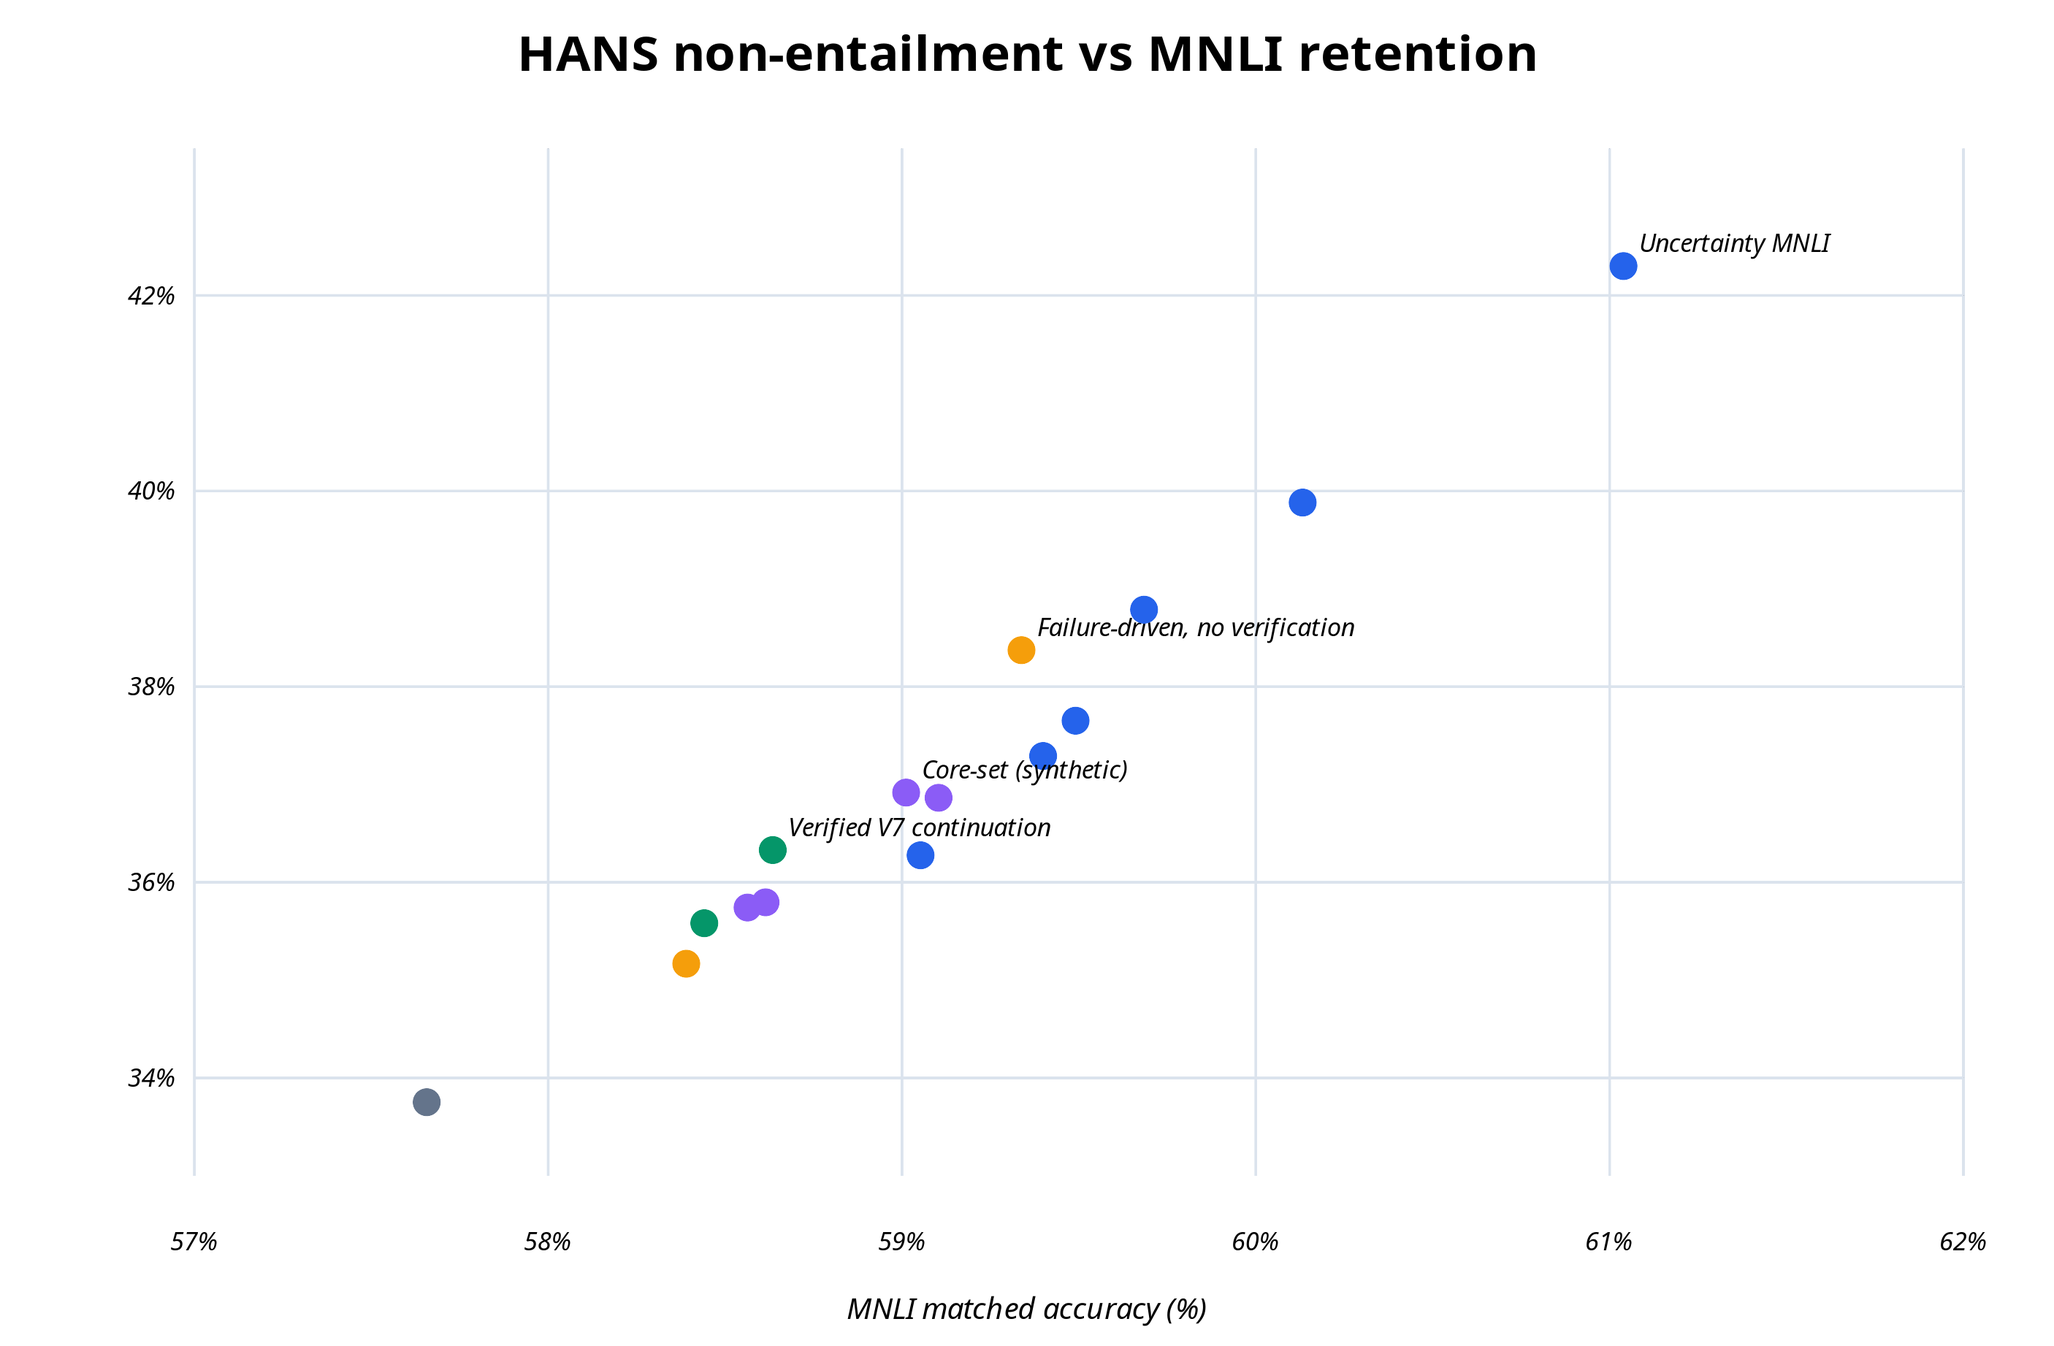
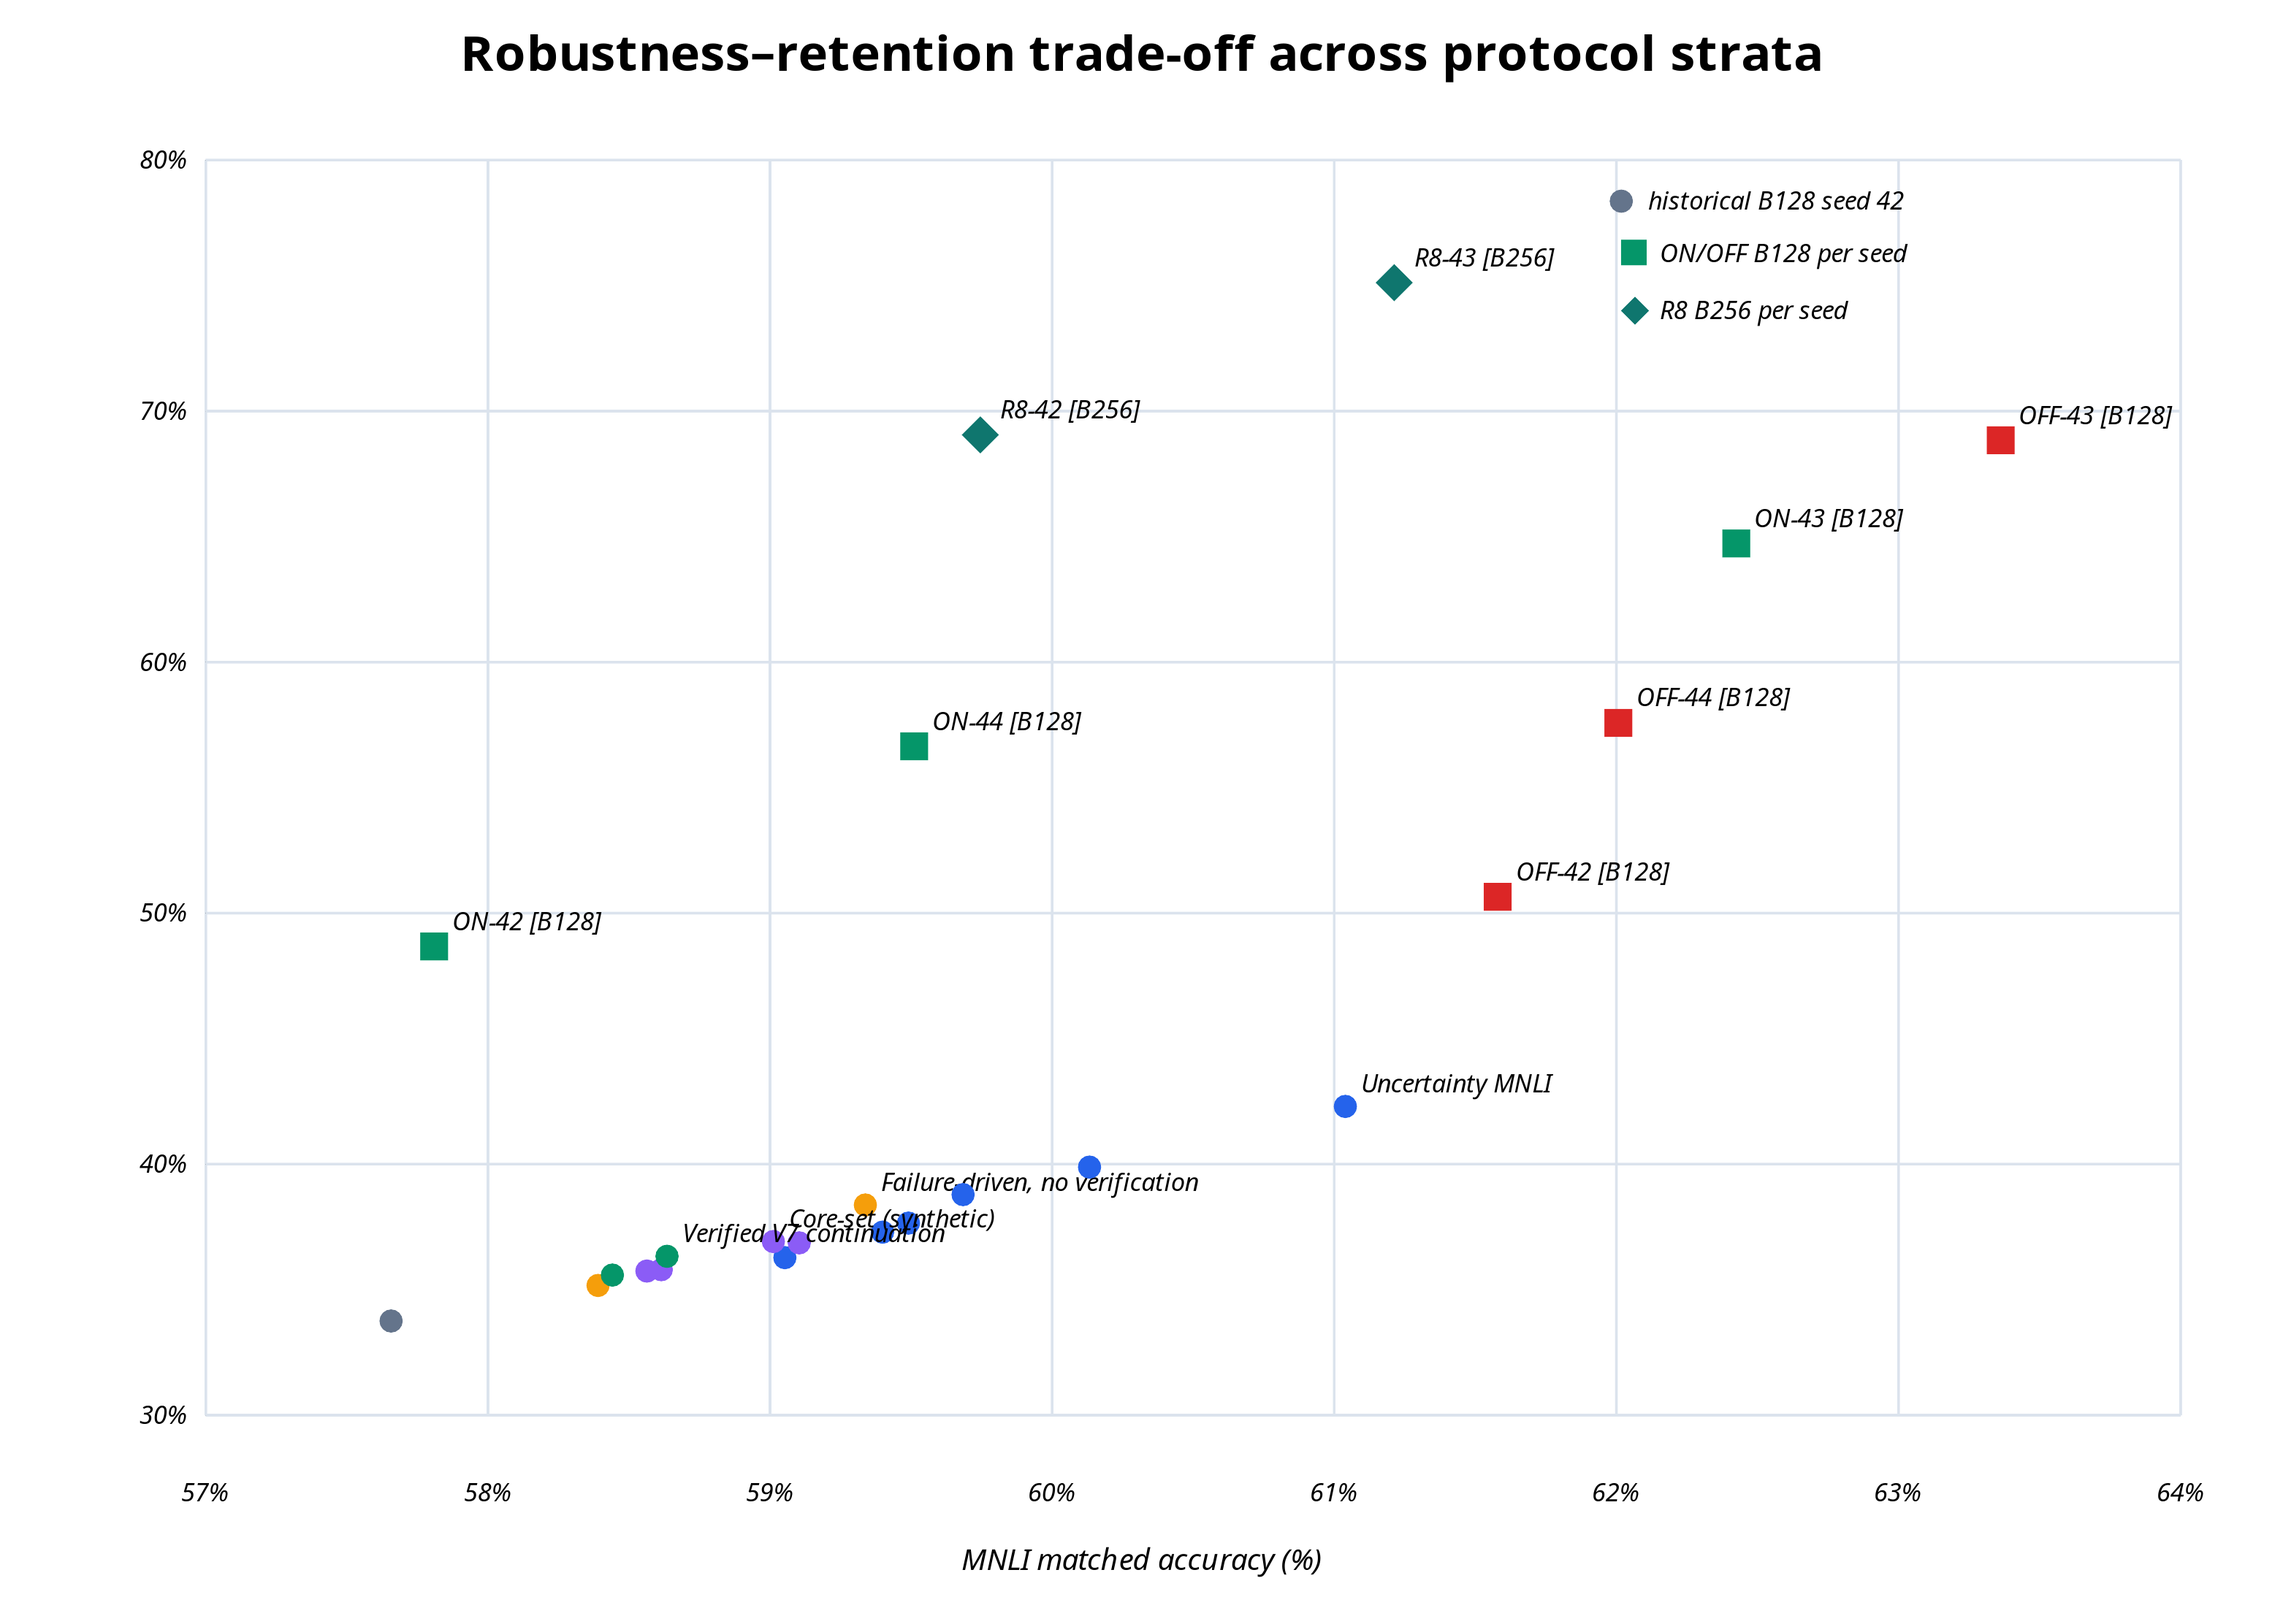
docs: include ON OFF and R8 results in overview figures

diff --git a/scripts/build_experimental_result.py b/scripts/build_experimental_result.py
@@ -310,28 +310,56 @@ def create_figures(main: list[dict[str, Any]], onoff: list[dict[str, Any]], exte
     """Dependency-light SVG renderer; PNG conversion uses ImageMagick."""
     palette = {"reference":"#64748b","human MNLI":"#2563eb","synthetic":"#f59e0b","static verified synthetic":"#8b5cf6","closed-loop synthetic":"#059669"}
 
-    # Figure 1: horizontal ranking.
-    ordered = sorted(main, key=lambda row: row["hans"])
-    width, height = 1100, 720; left, right, top, bottom = 270, 45, 60, 55
-    low, high = 63.0, 67.5; plot_w = width-left-right; row_h = (height-top-bottom)/len(ordered)
-    body = [text(width/2,30,"Budget-128 sealed-HANS comparison (seed 42)","title","middle")]
-    for tick in np.arange(63,68):
+    # Figure 1: protocol-stratified overview.  Rows are grouped rather than
+    # globally ranked so budget-256 results cannot be mistaken for equal-budget
+    # competitors.
+    historical = sorted(main, key=lambda row: row["hans"])
+    modern_128 = [
+        {"name": f"V7 {row['mode']} seed {row['seed']} [B128]", "hans": row["three"], "color": "#059669" if row["mode"] == "ON" else "#dc2626"}
+        for row in onoff
+    ]
+    modern_256 = [
+        {"name": f"V7 R8 seed {row['seed']} [B256]", "hans": row["three"], "color": "#0f766e"}
+        for row in extended
+    ]
+    sections = [
+        ("Historical/reproduced — budget 128, seed 42", [{"name": row["name"], "hans": row["hans"], "color": palette[row["source"]]} for row in historical]),
+        ("Training early-stopping ablation — budget 128", modern_128),
+        ("Extended trajectories — budget 256 (not equal-budget)", modern_256),
+    ]
+    width, height = 1220, 1120; left, right, top, bottom = 330, 55, 70, 65
+    low, high = 63.0, 78.0; plot_w = width-left-right
+    total_rows = sum(len(rows) for _, rows in sections); section_gap = 31
+    row_h = (height-top-bottom-section_gap*len(sections))/total_rows
+    body = [text(width/2,32,"Sealed-HANS overview, stratified by protocol and budget","title","middle")]
+    for tick in np.arange(63,79,3):
         x = left+(tick-low)/(high-low)*plot_w; body += [f'<line x1="{x}" y1="{top}" x2="{x}" y2="{height-bottom}" class="grid"/>',text(x,height-22,f"{tick:.0f}%","small","middle")]
-    for idx,row in enumerate(ordered):
-        y=top+idx*row_h+4; bar=(100*row["hans"]-low)/(high-low)*plot_w
-        body += [text(left-8,y+row_h*.55,row["name"],"small","end"),f'<rect x="{left}" y="{y}" width="{max(bar,1)}" height="{row_h*.68}" rx="2" fill="{palette[row["source"]]}"/>',text(left+bar+5,y+row_h*.52,f"{100*row['hans']:.2f}","small")]
+    cursor = top
+    for section_name, rows in sections:
+        body.append(text(left, cursor+14, section_name, "axis")); cursor += section_gap
+        for row in rows:
+            y=cursor+2; bar=(100*row["hans"]-low)/(high-low)*plot_w
+            body += [text(left-8,y+row_h*.55,row["name"],"small","end"),f'<rect x="{left}" y="{y}" width="{max(bar,1)}" height="{row_h*.68}" rx="2" fill="{row["color"]}"/>',text(left+bar+5,y+row_h*.52,f"{100*row['hans']:.2f}","small")]
+            cursor += row_h
     save_svg("01_main_hans_comparison",width,height,body)
 
-    # Figure 2: trade-off scatter.
-    width,height=900,590; left,right,top,bottom=85,40,65,75; xmin,xmax=57,62; ymin,ymax=33,43.5
+    # Figure 2: trade-off scatter including modern B128 and R8/B256 points.
+    width,height=1000,700; left,right,top,bottom=90,45,70,80; xmin,xmax=57,64; ymin,ymax=30,80
     sx=lambda v:left+(v-xmin)/(xmax-xmin)*(width-left-right); sy=lambda v:top+(ymax-v)/(ymax-ymin)*(height-top-bottom)
-    body=[text(width/2,31,"HANS non-entailment vs MNLI retention","title","middle")]
-    for tick in np.arange(57,63): body += [f'<line x1="{sx(tick)}" y1="{top}" x2="{sx(tick)}" y2="{height-bottom}" class="grid"/>',text(sx(tick),height-42,f"{tick}%","small","middle")]
-    for tick in np.arange(34,44,2): body += [f'<line x1="{left}" y1="{sy(tick)}" x2="{width-right}" y2="{sy(tick)}" class="grid"/>',text(left-8,sy(tick)+4,f"{tick}%","small","end")]
+    body=[text(width/2,31,"Robustness–retention trade-off across protocol strata","title","middle")]
+    for tick in np.arange(57,65): body += [f'<line x1="{sx(tick)}" y1="{top}" x2="{sx(tick)}" y2="{height-bottom}" class="grid"/>',text(sx(tick),height-42,f"{tick}%","small","middle")]
+    for tick in np.arange(30,81,10): body += [f'<line x1="{left}" y1="{sy(tick)}" x2="{width-right}" y2="{sy(tick)}" class="grid"/>',text(left-8,sy(tick)+4,f"{tick}%","small","end")]
     annotate={"Uncertainty MNLI","Verified V7 continuation","Core-set (synthetic)","Failure-driven, no verification"}
     for row in main:
-        x,y=sx(100*row["mnli_m"]),sy(100*row["nonent"]); body.append(f'<circle cx="{x}" cy="{y}" r="6" fill="{palette[row["source"]]}"/>')
+        x,y=sx(100*row["mnli_m"]),sy(100*row["nonent"]); body.append(f'<circle cx="{x}" cy="{y}" r="5" fill="{palette[row["source"]]}" opacity="0.8"/>')
         if row["name"] in annotate: body.append(text(x+7,y-6,row["name"],"small"))
+    for row in onoff:
+        x,y=sx(100*row["mnli_m"]),sy(100*row["three_nonent"]); color="#059669" if row["mode"]=="ON" else "#dc2626"
+        body += [f'<rect x="{x-6}" y="{y-6}" width="12" height="12" fill="{color}"/>',text(x+8,y-7,f"{row['mode']}-{row['seed']} [B128]","small")]
+    for row in extended:
+        x,y=sx(100*row["mnli_m"]),sy(100*row["three_nonent"])
+        body += [f'<polygon points="{x},{y-8} {x+8},{y} {x},{y+8} {x-8},{y}" fill="#0f766e"/>',text(x+9,y-7,f"R8-{row['seed']} [B256]","small")]
+    body += [f'<circle cx="{width-290}" cy="88" r="5" fill="#64748b"/>',text(width-278,92,"historical B128 seed 42","small"),f'<rect x="{width-290}" y="105" width="11" height="11" fill="#059669"/>',text(width-273,115,"ON/OFF B128 per seed","small"),f'<polygon points="{width-284},130 {width-278},136 {width-284},142 {width-290},136" fill="#0f766e"/>',text(width-273,140,"R8 B256 per seed","small")]
     body += [text(width/2,height-12,"MNLI matched accuracy (%)","axis","middle"),text(20,height/2,"HANS non-entailment (%)","axis","middle",-90)]
     save_svg("02_nonent_mnli_tradeoff",width,height,body)
 
@@ -495,13 +523,13 @@ The published selectors below are **implemented/reproduced acquisition baselines
 
 ![Main HANS comparison](reports/experimental_result_figures/01_main_hans_comparison.svg)
 
-*Figure 1: Sealed-HANS 15k accuracy for completed seed-42 budget-128 implemented baselines. The figure deliberately excludes the newer multi-seed early-stopping rows to avoid encoding unequal uncertainty as a single ranking.*
+*Figure 1: Sealed-HANS 15k accuracy for historical/reproduced budget-128 baselines, each Verification ON/OFF seed at budget 128, and each extended R8 seed at budget 256. Section boundaries and `[B128]/[B256]` labels prevent the extended results from being read as an equal-budget ranking.*
 
 At seed 42, uncertainty sampling from MNLI exceeds historical V7 continuation by `{100*(next(r for r in main if r['name']=='Uncertainty MNLI')['hans']-next(r for r in main if r['name']=='Verified V7 continuation')['hans']):.4f}` pp overall and `{100*(next(r for r in main if r['name']=='Uncertainty MNLI')['nonent']-next(r for r in main if r['name']=='Verified V7 continuation')['nonent']):.4f}` pp on non-entailment. Core-set and CAL on the static verified synthetic pool are within 0.06 pp of historical V7 continuation, which is not evidence of a meaningful ordering from one seed. Failure-driven acquisition without verification is 0.4667 pp above historical V7 continuation; verification is therefore not uniformly beneficial in the old protocol.
 
 ![Robustness–retention trade-off](reports/experimental_result_figures/02_nonent_mnli_tradeoff.svg)
 
-*Figure 2: HANS non-entailment versus MNLI matched accuracy. Human-MNLI access shifts both axes and must be disclosed.*
+*Figure 2: HANS non-entailment versus MNLI matched accuracy. Circles denote historical seed-42 budget-128 runs, squares denote individual ON/OFF budget-128 runs, and diamonds denote R8 budget-256 runs. Human-MNLI access and unequal budgets remain explicit confounders.*
 
 ### Extended 256-example trajectories (separate budget)
 

diff --git a/experimental_result.md b/experimental_result.md
@@ -57,13 +57,13 @@ The published selectors below are **implemented/reproduced acquisition baselines
 
 ![Main HANS comparison](reports/experimental_result_figures/01_main_hans_comparison.svg)
 
-*Figure 1: Sealed-HANS 15k accuracy for completed seed-42 budget-128 implemented baselines. The figure deliberately excludes the newer multi-seed early-stopping rows to avoid encoding unequal uncertainty as a single ranking.*
+*Figure 1: Sealed-HANS 15k accuracy for historical/reproduced budget-128 baselines, each Verification ON/OFF seed at budget 128, and each extended R8 seed at budget 256. Section boundaries and `[B128]/[B256]` labels prevent the extended results from being read as an equal-budget ranking.*
 
 At seed 42, uncertainty sampling from MNLI exceeds historical V7 continuation by `1.9933` pp overall and `5.9703` pp on non-entailment. Core-set and CAL on the static verified synthetic pool are within 0.06 pp of historical V7 continuation, which is not evidence of a meaningful ordering from one seed. Failure-driven acquisition without verification is 0.4667 pp above historical V7 continuation; verification is therefore not uniformly beneficial in the old protocol.
 
 ![Robustness–retention trade-off](reports/experimental_result_figures/02_nonent_mnli_tradeoff.svg)
 
-*Figure 2: HANS non-entailment versus MNLI matched accuracy. Human-MNLI access shifts both axes and must be disclosed.*
+*Figure 2: HANS non-entailment versus MNLI matched accuracy. Circles denote historical seed-42 budget-128 runs, squares denote individual ON/OFF budget-128 runs, and diamonds denote R8 budget-256 runs. Human-MNLI access and unequal budgets remain explicit confounders.*
 
 ### Extended 256-example trajectories (separate budget)
 
